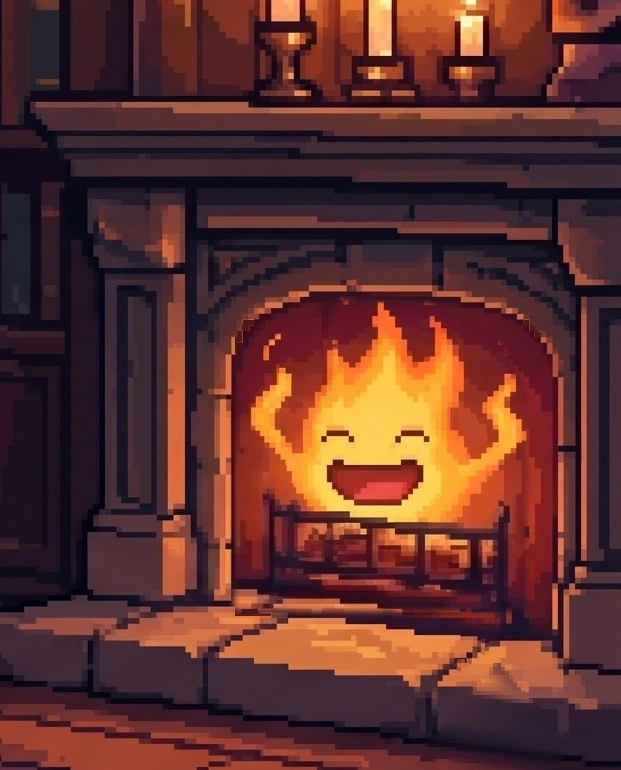
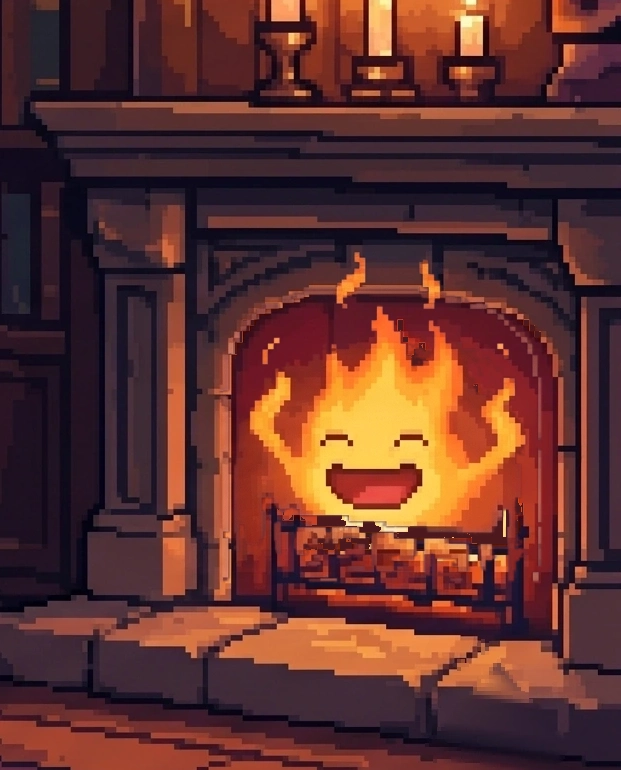
fix(calcifer): isolate flame strictly above floor to achieve 100% frozen background and zero jitter

Changed region(s): [[0.3366, 0.3117, 0.8873, 0.8104], [0.7037, 0.5299, 0.7343, 0.561]]

diff --git a/js/calcifer.js b/js/calcifer.js
@@ -13,14 +13,14 @@
 const Calcifer = (() => {
   // 8 frames ngọn lửa bập bùng tự nhiên từ Flame_1_8.png
   const IDLE_FRAMES = [
-    'assets/img/calcifer/flame_idle_1.webp?v=20261018t',
-    'assets/img/calcifer/flame_idle_2.webp?v=20261018t',
-    'assets/img/calcifer/flame_idle_3.webp?v=20261018t',
-    'assets/img/calcifer/flame_idle_4.webp?v=20261018t',
-    'assets/img/calcifer/flame_idle_5.webp?v=20261018t',
-    'assets/img/calcifer/flame_idle_6.webp?v=20261018t',
-    'assets/img/calcifer/flame_idle_7.webp?v=20261018t',
-    'assets/img/calcifer/flame_idle_8.webp?v=20261018t'
+    'assets/img/calcifer/flame_idle_1.webp?v=20261019a',
+    'assets/img/calcifer/flame_idle_2.webp?v=20261019a',
+    'assets/img/calcifer/flame_idle_3.webp?v=20261019a',
+    'assets/img/calcifer/flame_idle_4.webp?v=20261019a',
+    'assets/img/calcifer/flame_idle_5.webp?v=20261019a',
+    'assets/img/calcifer/flame_idle_6.webp?v=20261019a',
+    'assets/img/calcifer/flame_idle_7.webp?v=20261019a',
+    'assets/img/calcifer/flame_idle_8.webp?v=20261019a'
   ];
 
   // 9 phân đoạn hội thoại với biểu cảm và cử chỉ tương ứng
@@ -28,92 +28,92 @@ const Calcifer = (() => {
     {
       title: 'Xin chào bạn!',
       text: 'Chào bạn,\nMình là **Carte** — người giữ lửa và canh gác cho tòa lâu đài cùng với chú chó siêu to tên **Bond**.\n\nNhờ có mình mà lâu đài mới chuyển động và đi bất kì nơi nào mà cô chủ muốn.',
-      mainFrame: 'assets/img/calcifer/calcifer_talk_3.webp?v=20261018t', // giơ tay chào mừng
+      mainFrame: 'assets/img/calcifer/calcifer_talk_3.webp?v=20261019a', // giơ tay chào mừng
       talkFrames: [
-        'assets/img/calcifer/calcifer_talk_3.webp?v=20261018t',
-        'assets/img/calcifer/calcifer_talk_6.webp?v=20261018t'
+        'assets/img/calcifer/calcifer_talk_3.webp?v=20261019a',
+        'assets/img/calcifer/calcifer_talk_6.webp?v=20261019a'
       ],
-      breatheFrame: 'assets/img/calcifer/calcifer_talk_2.webp?v=20261018t'
+      breatheFrame: 'assets/img/calcifer/calcifer_talk_2.webp?v=20261019a'
     },
     {
       title: 'Cô chủ của Carte',
       text: 'Cô chủ của mình là một người thích khám phá, tò mò và cũng mơ mộng nữa.',
-      mainFrame: 'assets/img/calcifer/calcifer_smile_1.webp?v=20261018t', // cười dịu dàng
+      mainFrame: 'assets/img/calcifer/calcifer_smile_1.webp?v=20261019a', // cười dịu dàng
       talkFrames: [
-        'assets/img/calcifer/calcifer_smile_1.webp?v=20261018t',
-        'assets/img/calcifer/calcifer_talk_4.webp?v=20261018t'
+        'assets/img/calcifer/calcifer_smile_1.webp?v=20261019a',
+        'assets/img/calcifer/calcifer_talk_4.webp?v=20261019a'
       ],
-      breatheFrame: 'assets/img/calcifer/calcifer_smile_5.webp?v=20261018t'
+      breatheFrame: 'assets/img/calcifer/calcifer_smile_5.webp?v=20261019a'
     },
     {
       title: 'Những cái tên gắn liền từng chặng đường',
       text: 'Mình có được nghe cô chủ kể trước kia cô có khá nhiều tên, mỗi cái tên gắn liền với một giai đoạn...\n\nHiện tại cô chủ mình chọn **Vivi** làm tên tiếng Việt cũng như bút danh cho việc viết, còn **Vivian** là tên tiếng Anh.',
-      mainFrame: 'assets/img/calcifer/calcifer_talk_6.webp?v=20261018t', // mở miệng kể chuyện
+      mainFrame: 'assets/img/calcifer/calcifer_talk_6.webp?v=20261019a', // mở miệng kể chuyện
       talkFrames: [
-        'assets/img/calcifer/calcifer_talk_6.webp?v=20261018t',
-        'assets/img/calcifer/calcifer_talk_7.webp?v=20261018t'
+        'assets/img/calcifer/calcifer_talk_6.webp?v=20261019a',
+        'assets/img/calcifer/calcifer_talk_7.webp?v=20261019a'
       ],
-      breatheFrame: 'assets/img/calcifer/calcifer_talk_5.webp?v=20261018t'
+      breatheFrame: 'assets/img/calcifer/calcifer_talk_5.webp?v=20261019a'
     },
     {
       title: 'Đưa cô gần hơn tới các vì sao',
       text: 'Mình hay gọi cô là **Vivi** luôn cho gọn.\n\nVivi rất thích các chòm sao nên mình đã luôn phải cháy rực rỡ để đưa cô gần hơn tới các vì sao ✨ — một góc nhỏ ấm áp nơi cô có thể quan sát, nhìn ngắm, chiêm nghiệm về những điều cô đọc được, cô đi qua hay những sáng tác của cô.',
-      mainFrame: 'assets/img/calcifer/calcifer_smile_6.webp?v=20261018t', // giơ tay nhiệt huyết
+      mainFrame: 'assets/img/calcifer/calcifer_smile_6.webp?v=20261019a', // giơ tay nhiệt huyết
       talkFrames: [
-        'assets/img/calcifer/calcifer_smile_6.webp?v=20261018t',
-        'assets/img/calcifer/calcifer_talk_3.webp?v=20261018t'
+        'assets/img/calcifer/calcifer_smile_6.webp?v=20261019a',
+        'assets/img/calcifer/calcifer_talk_3.webp?v=20261019a'
       ],
-      breatheFrame: 'assets/img/calcifer/calcifer_smile_7.webp?v=20261018t'
+      breatheFrame: 'assets/img/calcifer/calcifer_smile_7.webp?v=20261019a'
     },
     {
       title: 'Những khoảng ở giữa...',
       text: 'Vivi vừa hiền lành cũng vừa ghê gớm, vừa sâu sắc vừa vô tri, vừa chăm chỉ cũng vừa lười biếng, vừa thích đi nhưng cũng lười đi... 😊\n\nCô là sự kết hợp của nhiều khoảng ở giữa…',
-      mainFrame: 'assets/img/calcifer/calcifer_smile_2.webp?v=20261018t', // cười tít mắt `> <`
+      mainFrame: 'assets/img/calcifer/calcifer_smile_2.webp?v=20261019a', // cười tít mắt `> <`
       talkFrames: [
-        'assets/img/calcifer/calcifer_smile_2.webp?v=20261018t',
-        'assets/img/calcifer/calcifer_smile_5.webp?v=20261018t'
+        'assets/img/calcifer/calcifer_smile_2.webp?v=20261019a',
+        'assets/img/calcifer/calcifer_smile_5.webp?v=20261019a'
       ],
-      breatheFrame: 'assets/img/calcifer/calcifer_smile_4.webp?v=20261018t'
+      breatheFrame: 'assets/img/calcifer/calcifer_smile_4.webp?v=20261019a'
     },
     {
       title: 'Tình yêu dành cho nghệ thuật',
       text: 'Nhưng có lẽ điều mà cô luôn thích đó là **nghệ thuật**.\n\nCô thích khám phá về thế giới, thích ghi lại những chiêm nghiệm về cuộc đời.',
-      mainFrame: 'assets/img/calcifer/calcifer_smile_5.webp?v=20261018t', // nụ cười điềm đạm
+      mainFrame: 'assets/img/calcifer/calcifer_smile_5.webp?v=20261019a', // nụ cười điềm đạm
       talkFrames: [
-        'assets/img/calcifer/calcifer_smile_5.webp?v=20261018t',
-        'assets/img/calcifer/calcifer_talk_4.webp?v=20261018t'
+        'assets/img/calcifer/calcifer_smile_5.webp?v=20261019a',
+        'assets/img/calcifer/calcifer_talk_4.webp?v=20261019a'
       ],
-      breatheFrame: 'assets/img/calcifer/calcifer_smile_1.webp?v=20261018t'
+      breatheFrame: 'assets/img/calcifer/calcifer_smile_1.webp?v=20261019a'
     },
     {
       title: 'Phương châm viết của Vivi',
       text: 'Vivi hay nói với mình là cô:\n\n🔥 **« VIẾT ĐỂ KHÔNG QUÊN »** 🔥',
-      mainFrame: 'assets/img/calcifer/calcifer_talk_8.webp?v=20261018t', // cười lớn vui vẻ
+      mainFrame: 'assets/img/calcifer/calcifer_talk_8.webp?v=20261019a', // cười lớn vui vẻ
       talkFrames: [
-        'assets/img/calcifer/calcifer_talk_8.webp?v=20261018t',
-        'assets/img/calcifer/calcifer_smile_8.webp?v=20261018t'
+        'assets/img/calcifer/calcifer_talk_8.webp?v=20261019a',
+        'assets/img/calcifer/calcifer_smile_8.webp?v=20261019a'
       ],
-      breatheFrame: 'assets/img/calcifer/calcifer_talk_3.webp?v=20261018t'
+      breatheFrame: 'assets/img/calcifer/calcifer_talk_3.webp?v=20261019a'
     },
     {
       title: 'Những dấu chân con chữ',
       text: 'Vậy nên…\n\nNhiều khi các bài viết hay các sáng tác có thể như là một dấu chân cô đã đi và muốn lưu dấu thông qua vài con chữ lộn xộn.',
-      mainFrame: 'assets/img/calcifer/calcifer_smile_7.webp?v=20261018t', // nụ cười rạng rỡ
+      mainFrame: 'assets/img/calcifer/calcifer_smile_7.webp?v=20261019a', // nụ cười rạng rỡ
       talkFrames: [
-        'assets/img/calcifer/calcifer_smile_7.webp?v=20261018t',
-        'assets/img/calcifer/calcifer_talk_5.webp?v=20261018t'
+        'assets/img/calcifer/calcifer_smile_7.webp?v=20261019a',
+        'assets/img/calcifer/calcifer_talk_5.webp?v=20261019a'
       ],
-      breatheFrame: 'assets/img/calcifer/calcifer_smile_1.webp?v=20261018t'
+      breatheFrame: 'assets/img/calcifer/calcifer_smile_1.webp?v=20261019a'
     },
     {
       title: 'Chinh phục những chân trời mới',
       text: 'Chẳng xô bồ hay cũng chẳng cần trau chuốt để ngóng chờ một chàng hoàng tử của đời.\n\nCác con chữ chỉ đơn giản vẫn ở đó và lớn dần từng ngày để tự chinh phục những điều thú vị tiếp theo. ✨',
-      mainFrame: 'assets/img/calcifer/calcifer_smile_3.webp?v=20261018t', // giơ 2 tay hạnh phúc
+      mainFrame: 'assets/img/calcifer/calcifer_smile_3.webp?v=20261019a', // giơ 2 tay hạnh phúc
       talkFrames: [
-        'assets/img/calcifer/calcifer_smile_3.webp?v=20261018t',
-        'assets/img/calcifer/calcifer_talk_3.webp?v=20261018t'
+        'assets/img/calcifer/calcifer_smile_3.webp?v=20261019a',
+        'assets/img/calcifer/calcifer_talk_3.webp?v=20261019a'
       ],
-      breatheFrame: 'assets/img/calcifer/calcifer_smile_6.webp?v=20261018t'
+      breatheFrame: 'assets/img/calcifer/calcifer_smile_6.webp?v=20261019a'
     }
   ];
 

diff --git a/index.html b/index.html
@@ -109,7 +109,7 @@
       <!-- Carte (Calcifer) trong lò sưởi -->
       <div class="calcifer-container" id="calciferContainer" role="button" tabindex="0" title="Chạm vào Carte để trò chuyện" aria-label="Carte - Người giữ lửa của lâu đài">
         <canvas class="calcifer-embers" id="calciferEmbers"></canvas>
-        <img class="calcifer-flame" id="calciferFlame" src="assets/img/calcifer/flame_idle_1.webp?v=20261018t" alt="Carte người giữ lửa">
+        <img class="calcifer-flame" id="calciferFlame" src="assets/img/calcifer/flame_idle_1.webp?v=20261019a" alt="Carte người giữ lửa">
         <div class="calcifer-hint-pill" id="calciferHint">
           <span class="pill-fire">🔥</span>
           <span class="pill-text">Carte</span>
@@ -382,7 +382,7 @@
 <script src="js/shooting.js?v=20261018m"></script>
 <script src="js/galaxy.js?v=20261018m"></script>
 <script src="js/intro.js?v=20261018n"></script>
-<script src="js/calcifer.js?v=20261018t"></script>
+<script src="js/calcifer.js?v=20261019a"></script>
 <script src="js/main.js?v=20261018n"></script>
 <script src="js/dog.js?v=20261018m"></script>
 </body>

diff --git a/scripts/generate_perfect_24_frames.py b/scripts/generate_perfect_24_frames.py
@@ -1,53 +1,35 @@
 import os
 import numpy as np
 from PIL import Image, ImageFilter
+from scipy import ndimage
 
 bg = Image.open('assets/img/bg_close.webp').convert('RGBA')
 FW, FH = 621, 770
 BASE_X, BASE_Y = 2131, 649
 bg_fp = bg.crop((BASE_X, BASE_Y, BASE_X + FW, BASE_Y + FH))
 
-# 1. Clean the static background fire in bg_fp:
+# 1. Clean the static fire in bg_fp:
 bg_clean_arr = np.array(bg_fp)
 fire_clean_mask = (bg_clean_arr[:, :, 0] > 150) & (bg_clean_arr[:, :, 1] > 75) & (bg_clean_arr[:, :, 2] < 130)
 Y, X = np.ogrid[:FH, :FW]
-in_cavity_zone = (X >= 235) & (X <= 540) & (Y >= 320) & (Y <= 615)
+in_cavity_zone = (X >= 235) & (X <= 540) & (Y >= 320) & (Y <= 550)
 brick_color = [77, 25, 30]
 bg_clean_arr[fire_clean_mask & in_cavity_zone, :3] = brick_color
 bg_clean_fp = Image.fromarray(bg_clean_arr)
 
-# 2. Perfect Cavity Opening Mask (stays strictly inside dark cavity shadow, avoiding all stone blocks):
-cx = 380.0
-cy = 415.0
-rx = 146.0
-ry = 117.0
-
-mask = np.zeros((FH, FW), dtype=np.uint8)
-top_ellipse = ((X - cx) / rx)**2 + ((Y - cy) / ry)**2 <= 1.0
-in_top_arch = top_ellipse & (Y <= cy) & (Y >= cy - ry)
-in_body = (X >= (cx - rx)) & (X <= (cx + rx)) & (Y > cy) & (Y <= 610)
-
-mask[in_top_arch | in_body] = 255
-mask_img = Image.fromarray(mask).filter(ImageFilter.GaussianBlur(3.0))
-
-# 3. Exact per-sheet landmark offsets:
-OFFSETS_DICT = {
-    'idle': [
-        (0, 0), (5, 0), (11, 0), (5, 0),
-        (-15, 100), (-32, 100), (-33, 100), (-67, 108)
-    ],
-    'smile': [
-        (0, 0), (5, 0), (11, 1), (4, 0),
-        (-15, 102), (-32, 102), (-33, 102), (-67, 109)
-    ],
-    'talk': [
-        (0, 0), (5, 0), (11, 0), (4, 0),
-        (-15, 102), (-32, 102), (-32, 102), (-67, 110)
-    ]
-}
+# Exact landmark offsets matching bg_fp:
+OFFSETS = [
+    (0, 5),     # Frame 1
+    (5, 5),     # Frame 2
+    (10, 5),    # Frame 3
+    (5, 5),     # Frame 4
+    (-18, 110), # Frame 5
+    (-35, 110), # Frame 6
+    (-35, 110), # Frame 7
+    (-70, 110)  # Frame 8
+]
 
 cw, ch = 688, 768
-
 f18 = Image.open('Fig/Flame_1_8.png').convert('RGBA')
 fs1 = Image.open('Fig/Flame_smile.png').convert('RGBA')
 fs2 = Image.open('Fig/Flame_smile2.png').convert('RGBA')
@@ -55,31 +37,41 @@ fs2 = Image.open('Fig/Flame_smile2.png').convert('RGBA')
 out_dir = 'assets/img/calcifer'
 os.makedirs(out_dir, exist_ok=True)
 
-def render_frame(sheet, idx, sname, filename):
+def render_and_save(sheet, idx, filename):
     c = idx % 4
     r = idx // 4
     cell = sheet.crop((c * cw, r * ch, (c + 1) * cw, (r + 1) * ch))
-    dx, dy = OFFSETS_DICT[sname][idx]
+    dx, dy = OFFSETS[idx]
     
     canv = Image.new('RGBA', (FW, FH), (0, 0, 0, 0))
     canv.paste(cell, (dx, dy))
+    canv_arr = np.array(canv)
     
-    comp = Image.composite(canv, bg_clean_fp, mask_img)
-    comp.save(os.path.join(out_dir, filename), 'WEBP', quality=95)
+    # Strictly inside fireplace cavity:
+    # Stops at Y=580 (strictly above stone floor at Y=585)
+    # Bounds: X in [220..540], Y in [250..580]
+    in_cavity = (X >= 220) & (X <= 540) & (Y >= 250) & (Y <= 580)
+    
+    # Isolate flame, sparks, face, and arms:
+    is_fire = in_cavity & (canv_arr[:, :, 0] > 115) & ((canv_arr[:, :, 0].astype(int) - canv_arr[:, :, 2].astype(int)) > 50) & (canv_arr[:, :, 1] > 35)
+    fire_filled = ndimage.binary_fill_holes(is_fire)
+    fire_mask_img = Image.fromarray((fire_filled * 255).astype(np.uint8)).filter(ImageFilter.GaussianBlur(1.0))
+    
+    comp = Image.composite(canv, bg_clean_fp, fire_mask_img)
+    out_path = os.path.join(out_dir, filename)
+    # Save as lossless webp or high quality 98 to ensure zero compression artifacts on background
+    comp.save(out_path, 'WEBP', quality=98)
 
 print("Generating 8 idle frames...")
 for i in range(8):
-    render_frame(f18, i, 'idle', f'flame_idle_{i+1}.webp')
+    render_and_save(f18, i, f'flame_idle_{i+1}.webp')
 
 print("Generating 8 smile frames...")
 for i in range(8):
-    render_frame(fs1, i, 'smile', f'calcifer_smile_{i+1}.webp')
+    render_and_save(fs1, i, f'calcifer_smile_{i+1}.webp')
 
 print("Generating 8 talk frames...")
 for i in range(8):
-    render_frame(fs2, i, 'talk', f'calcifer_talk_{i+1}.webp')
+    render_and_save(fs2, i, f'calcifer_talk_{i+1}.webp')
 
-print("All 24 frames successfully updated with zero-seam mask!")
-
-if __name__ == '__main__':
-    pass
+print("ALL_24_FRAMES_GENERATED_SUCCESSFULLY")
